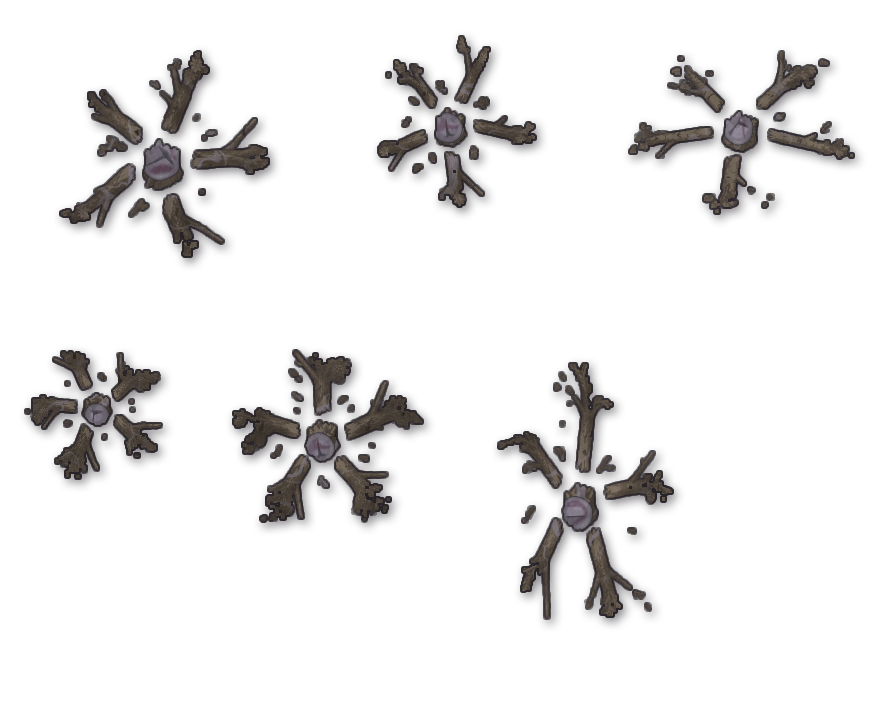
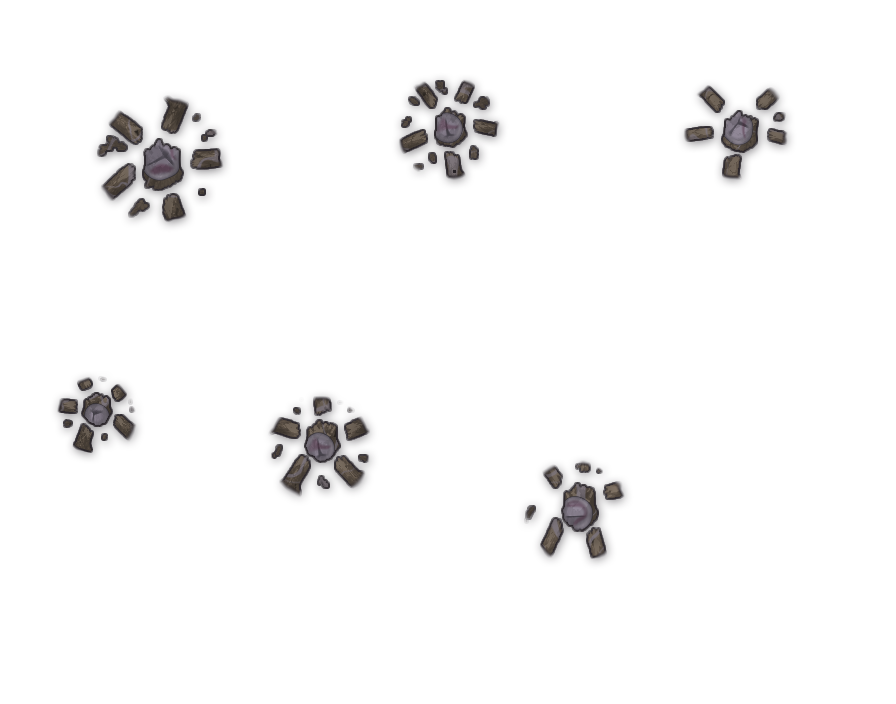
Dead wood ships weathered (owner pick B); felled dead trees lie flattened, a stump and short limb butts, so they read as ground a vehicle drives over

diff --git a/src/test/java/com/dillon/starsectormarines/ops/battleview/CreepBlightBaker.java b/src/test/java/com/dillon/starsectormarines/ops/battleview/CreepBlightBaker.java
@@ -23,16 +23,17 @@ import java.util.Random;
  * <p>A tree is taken in four stages, as a wall is: veins reaching in over the
  * crown from its rim while the leaves start to turn; a crust rolling in from the
  * rim with its beaded lip while the leaves brown; the crown withering, its dead
- * leaves falling from a bare skeleton; and the dead tree, a skeleton of bleached,
- * bone-pale limbs forking out to the crown's own outline, crusted at the trunk
- * with veins running out along the limbs. The skeleton is grown here rather than
+ * leaves falling from a bare skeleton; and the dead tree, a snag of weathered
+ * grey-brown limbs reaching unevenly out toward the crown's own outline, some
+ * snapped short, crusted at the trunk with veins running out along the limbs.
+ * (Bleached, smooth and evenly radial, it read as bone.) The skeleton is grown here rather than
  * taken from the damaged sheet, whose few broken limbs vanish at play zoom, and
  * a dark outline and a soft ground shadow stand it up off the creep. Every stage
  * exists for the intact and the war-damaged crown.
  *
- * <p>A dead tree felled lies as dead wood ({@link #felled}): the destroyed
- * sheet's stump and fallen limbs, bleached bone-pale and bare of leaves, the
- * stump crusted and veins running out along the limbs. It is a sheet of its own,
+ * <p>A dead tree felled lies flattened ({@link #felled}): the destroyed sheet's
+ * stump and the butts of its limbs snapped off short, in the dead bark and bare
+ * of leaves, the stump crusted, so it reads as ground a vehicle drives over. It is a sheet of its own,
  * {@code forest-blight-felled}, so the staged sheet's texture keeps its size.
  *
  * <p>Run with {@code gradlew.bat bakeCreepBlight}; it rewrites
@@ -61,56 +62,30 @@ public final class CreepBlightBaker {
     static boolean dense;
 
     /**
-     * How dead wood is drawn, every dead form alike (the withering skeleton, the dead tree, both war-damaged, and the
-     * felled wood): its bark colour and how far the light and grain move it, how ragged its limbs grow, how far the
-     * crust and veins climb, what share of dead leaves the dead tree keeps, the pale ridge its lit side takes, and
-     * where crust swallows the limbs in patches ({@code -PdeadLook=<name>}, an owner pick: the losers go once picked).
+     * Dead wood, every dead form alike (the withering skeleton, the dead tree, both war-damaged, and the felled
+     * wood): weathered grey-brown bark, its grain and fissures darkening it and its lit ridges silvered.
      */
-    record DeadLook(String name, float[] bark, float contrast, float grain, float fissure, float rough,
-                    float crust, float veins, float keep, float[] ridge, float ridgeAmount, float swallowAt,
-                    float felledCrust) {
-        /** Bleached bone-pale, smooth and round: the first look. */
-        static final DeadLook BONE = new DeadLook("bone", new float[]{0.86f, 0.83f, 0.76f}, 1f, 0.12f, 0f, 0f,
-                0.2f, 0.7f, 0.97f, null, 0f, 2f, 0.13f);
-        /** A weathered snag: grey-brown fissured bark silvered on its lit ridges, ragged broken limbs, a few dead
-         *  leaves still caught in it. */
-        static final DeadLook WEATHERED = new DeadLook("weathered", new float[]{0.42f, 0.37f, 0.32f}, 0.9f, 0.3f,
-                0.2f, 0.45f, 0.2f, 0.55f, 0.86f, new float[]{0.66f, 0.64f, 0.6f}, 0.35f, 2f, 0.13f);
-        /** Half swallowed: dark bark under crust climbing the limbs and lumped along them. */
-        static final DeadLook SWALLOWED = new DeadLook("swallowed", new float[]{0.34f, 0.30f, 0.28f}, 0.9f, 0.3f,
-                0.2f, 0.45f, 0.5f, 1f, 0.97f, null, 0f, 0.6f, 0.3f);
-        /** Rotted black: near-black wet bark, ash-grey on its lit ridges, ragged. */
-        static final DeadLook ROTTED = new DeadLook("rotted", new float[]{0.13f, 0.115f, 0.11f}, 0.8f, 0.25f,
-                0.25f, 0.5f, 0.2f, 0.5f, 0.995f, new float[]{0.55f, 0.53f, 0.5f}, 0.6f, 2f, 0.13f);
+    static final float[] BARK = {0.42f, 0.37f, 0.32f}, RIDGE = {0.66f, 0.64f, 0.6f};
+    /** How far the light, the grain and the fissures move the bark, and how strongly its lit ridges silver. */
+    static final float CONTRAST = 0.9f, GRAIN = 0.3f, FISSURE = 0.2f, RIDGE_AMOUNT = 0.35f;
+    /** How ragged a dead limb's edge grows: its width knotted by this share either way. */
+    static final float ROUGH = 0.45f;
+    /** How far, as a share of the crown's radius, the crust and the veins climb a dead tree. */
+    static final float DEAD_CRUST = 0.2f, DEAD_VEINS = 0.55f;
+    /** The dead tree keeps a few dead leaves caught in it: those whose noise runs past this. */
+    static final float DEAD_KEEP = 0.86f;
 
-        static DeadLook named(String name) {
-            for (DeadLook look : new DeadLook[]{BONE, WEATHERED, SWALLOWED, ROTTED}) if (look.name.equals(name)) return look;
-            throw new IllegalArgumentException("No dead look " + name);
-        }
-
-        /** The wood's colour at light {@code l} (ungrained: the grain is the look's), from the fine noise there. */
-        void wood(float l, float[] fine, float[] col) {
-            float shade = (1f + contrast * (l - 1f)) * (1f + grain * (fine[0] - 0.5f) * 2f);
-            if (fissure > 0f) shade *= CreepShading.mix(0.55f, 1f, CreepShading.smoothstep(fissure - 0.06f, fissure + 0.06f, fine[1]));
-            for (int c = 0; c < 3; c++) col[c] = bark[c] * shade;
-            if (ridge == null) return;
-            float lit = CreepShading.smoothstep(0.92f, 1.12f, l) * ridgeAmount;
-            for (int c = 0; c < 3; c++) col[c] = CreepShading.mix(col[c], ridge[c] * l, lit);
-        }
-
-        /** Crust lumped along the limbs where the coarse noise runs past {@link #swallowAt}: pixels inside it. */
-        float swallowed(float coarse) {
-            return (coarse - swallowAt) * 60f;
-        }
+    /** The wood's colour at light {@code l} (ungrained: the grain is added here), from the fine noise there. */
+    static void wood(float l, float[] fine, float[] col) {
+        float shade = (1f + CONTRAST * (l - 1f)) * (1f + GRAIN * (fine[0] - 0.5f) * 2f);
+        shade *= CreepShading.mix(0.55f, 1f, CreepShading.smoothstep(FISSURE - 0.06f, FISSURE + 0.06f, fine[1]));
+        float lit = CreepShading.smoothstep(0.92f, 1.12f, l) * RIDGE_AMOUNT;
+        for (int c = 0; c < 3; c++) col[c] = CreepShading.mix(BARK[c] * shade, RIDGE[c] * l, lit);
     }
-
-    /** The dead look this bake draws. */
-    static DeadLook look = DeadLook.BONE;
 
     public static void main(String[] args) throws Exception {
         Path mod = Path.of(args.length > 0 ? args[0] : "mod");
         dense = args.length > 1 && "dense".equals(args[1]);
-        if (args.length > 2) look = DeadLook.named(args[2]);
         BufferedImage canopies = ImageIO.read(mod.resolve("graphics/doodads/forest-canopies.png").toFile());
         BufferedImage damaged = ImageIO.read(mod.resolve("graphics/doodads/forest-damaged.png").toFile());
         JSONObject tileset = new JSONObject(Files.readString(mod.resolve("data/tilesets/forest-canopies.tileset.json")));
@@ -161,13 +136,17 @@ public final class CreepBlightBaker {
                 .put("cells", cells).put("doodads", defs);
     }
 
-    /** A felled tree lies on the ground: its shadow is thrown this much of a standing dead tree's. */
-    static final float FELLED_SHADOW = 0.35f;
+    /** A felled tree lies flat: its shadow is thrown this much of a standing dead tree's. */
+    static final float FELLED_SHADOW = 0.15f;
+    /** How far, as a share of the footprint's half-size, the felled wood's limbs reach before they break off. */
+    static final float FELLED_REACH = 0.4f;
+    /** How far the crust reaches out from the stump, as the same share. */
+    static final float FELLED_CRUST = 0.13f;
 
     /**
-     * A destroyed tree, dead: its stump and fallen limbs bleached bone-pale with the bark's own shading kept as
-     * grain, its leaves gone, the stump crusted over and veins running out along the limbs, outlined over a low
-     * shadow.
+     * A destroyed tree, dead, flattened: its stump and the butts of its limbs, snapped off short (a vehicle drives
+     * over it, so it must not read as a fallen tree that still blocks), in the dead bark, its leaves gone, the stump
+     * crusted over and veins running out along the butts, outlined over a low shadow.
      */
     static int[] felled(Frame f, CreepPalette pal) {
         int w = f.w, h = f.h, n = w * h;
@@ -183,13 +162,16 @@ public final class CreepBlightBaker {
             for (int x = 0; x < w; x++) {
                 int i = y * w + x;
                 if (!wood[i] || f.a[i] <= 0.01f) continue;
+                float rr = (float) Math.hypot(x + 0.5f - cx, y + 0.5f - cy) / radius;
+                // The limbs break off at a ragged line not far out from the stump.
+                float broken = CreepShading.smoothstep(FELLED_REACH + 0.12f * (knot(x, y) - 0.5f), FELLED_REACH - 0.04f, rr);
+                if (broken <= 0f) continue;
                 float cellX = x / (float) CELL, cellY = y / (float) CELL;
                 CreepNoise.sample(cellX * 2.6f + 7.1f, cellY * 2.6f + 2.3f, noise);
                 CreepNoise.sample(cellX * 6f + 1.9f, cellY * 6f + 4.4f, fine);
-                float rr = (float) Math.hypot(x + 0.5f - cx, y + 0.5f - cy) / radius;
                 float lit = CreepShading.clamp01(0.5f + 0.75f * f.lum[i]), l = lit * (0.9f + 0.2f * fine[0]);
                 float[] col = new float[3];
-                look.wood(lit, fine, col);
+                wood(lit, fine, col);
                 CreepSurface.sample(cellX * CreepShading.WALL_VEIN_SCALE, cellY * CreepShading.WALL_VEIN_SCALE,
                         CreepShading.WALL_VEIN_SCALE, surf);
                 float vein = CreepShading.clamp01(surf[2] * 1.6f) * CreepShading.smoothstep(0.75f, 0.2f, rr);
@@ -197,8 +179,7 @@ public final class CreepBlightBaker {
                     float raised = CreepShading.mix(pal.flesh()[c], pal.rim()[c], 0.35f) * (0.6f + 0.4f * l);
                     col[c] = CreepShading.mix(col[c], raised, 0.8f * vein);
                 }
-                float crust = Math.max((look.felledCrust() + (noise[0] - 0.5f) * 0.12f - rr) * radius,
-                        look.swallowed(noise[0]));
+                float crust = (FELLED_CRUST + (noise[0] - 0.5f) * 0.12f - rr) * radius;
                 float cover = CreepShading.clamp01(crust + 0.5f);
                 if (cover > 0f) {
                     float[] c2 = crustColour(cellX, cellY, crust, 0.35f + 0.4f * l, noise[0], pal, surf);
@@ -207,7 +188,7 @@ public final class CreepBlightBaker {
                 r[i] = col[0];
                 g[i] = col[1];
                 b[i] = col[2];
-                a[i] = f.a[i];
+                a[i] = f.a[i] * broken;
             }
         }
         return standUp(r, g, b, a, a.clone(), w, h, FELLED_SHADOW);
@@ -399,7 +380,7 @@ public final class CreepBlightBaker {
     static final float SHADOW_ALPHA = 0.5f;
 
     /**
-     * The last two stages: a skeleton of bare, bone-pale limbs forking out from the trunk to the crown's own outline,
+     * The last two stages: a skeleton of bare, weathered limbs forking unevenly out from the trunk toward the crown's outline,
      * crusted at the trunk with veins running out along the limbs, under the dead leaves still hanging on (half of
      * them withering, a few at the last), drawn with a dark outline over a soft shadow on the ground.
      */
@@ -422,21 +403,20 @@ public final class CreepBlightBaker {
         // Grown limbs, out along the crown's reach in every direction. A damaged crown keeps only its own stubs.
         Frame reachOf = damaged ? broken : healthy;
         Random rng = new Random(seed);
-        boolean ragged = look.rough() > 0f;
-        int mains = dense ? 9 + rng.nextInt(3) : ragged ? 4 + rng.nextInt(3) : 6 + rng.nextInt(3);
+        int mains = dense ? 9 + rng.nextInt(3) : 4 + rng.nextInt(3);
         double start = rng.nextDouble() * Math.PI * 2;
-        float base = Math.max(3.5f, radius * (ragged ? 0.095f : 0.075f));
+        float base = Math.max(3.5f, radius * 0.095f);
         for (int k = 0; k < mains; k++) {
-            double angle = start + k * Math.PI * 2 / mains + (rng.nextDouble() - 0.5) * (ragged ? 1.1 : 0.5);
+            double angle = start + k * Math.PI * 2 / mains + (rng.nextDouble() - 0.5) * 1.1;
             float reach = reach(reachOf, cx, cy, angle);
             if (reach < radius * 0.25f) continue;
-            // A ragged tree's limbs reach unevenly, and now and then one has snapped off short.
-            if (ragged) reach *= rng.nextInt(4) == 0 ? 0.35f + 0.2f * rng.nextFloat() : 0.7f + 0.3f * rng.nextFloat();
+            // The limbs reach unevenly, and now and then one has snapped off short.
+            reach *= rng.nextInt(4) == 0 ? 0.35f + 0.2f * rng.nextFloat() : 0.7f + 0.3f * rng.nextFloat();
             limb(wood, light, w, h, cx, cy, angle, reach * (dense ? 0.42f : 0.5f), base, dense ? 6 : 4, rng, reach, cx, cy);
         }
         // Leaves still hanging on, dead and dry.
         float[] noise = new float[4], fine = new float[4], surf = new float[4];
-        float keep = stage == 3 ? 0.45f : look.keep();
+        float keep = stage == 3 ? 0.45f : DEAD_KEEP;
         float[] r = new float[n], g = new float[n], b = new float[n], a = new float[n];
         // What the outline goes round: the whole crown while it withers, the bare wood once it is dead.
         float[] outlined = new float[n];
@@ -452,15 +432,14 @@ public final class CreepBlightBaker {
                 if (wood[i] > 0f) {
                     float grain = 0.88f + 0.24f * fine[0];
                     float l = CreepShading.clamp01(light[i]) * grain;
-                    look.wood(CreepShading.clamp01(light[i]), fine, col);
+                    wood(CreepShading.clamp01(light[i]), fine, col);
                     // Crust up the trunk and the bases of the limbs, veins out along them.
                     float lobes = (noise[0] - 0.5f) * 0.3f;
-                    float crust = Math.max((look.crust() * (stage == 3 ? 0.6f : 1f) + lobes - rr) * radius,
-                            stage == 3 ? -9f : look.swallowed(noise[0]));
+                    float crust = (DEAD_CRUST * (stage == 3 ? 0.6f : 1f) + lobes - rr) * radius;
                     CreepSurface.sample(cellX * CreepShading.WALL_VEIN_SCALE, cellY * CreepShading.WALL_VEIN_SCALE,
                             CreepShading.WALL_VEIN_SCALE, surf);
                     float vein = CreepShading.clamp01(surf[2] * 1.6f)
-                            * CreepShading.smoothstep(look.veins() - (stage == 3 ? 0.25f : 0f), 0.15f, rr);
+                            * CreepShading.smoothstep(DEAD_VEINS - (stage == 3 ? 0.25f : 0f), 0.15f, rr);
                     for (int c = 0; c < 3; c++) {
                         float raised = CreepShading.mix(pal.flesh()[c], pal.rim()[c], 0.35f) * (0.6f + 0.4f * l);
                         col[c] = CreepShading.mix(col[c], raised, 0.8f * vein);
@@ -546,7 +525,7 @@ public final class CreepBlightBaker {
     static void limb(float[] wood, float[] light, int w, int h, float x0, float y0, double angle, float length,
                      float width, int depth, Random rng, float reach, float cx, float cy) {
         // A limb bends once along its length.
-        double bend = (rng.nextDouble() - 0.5) * (look.rough() > 0f ? 0.9 : 0.45);
+        double bend = (rng.nextDouble() - 0.5) * 0.9;
         float mx = x0 + (float) Math.cos(angle) * length * 0.5f, my = y0 + (float) Math.sin(angle) * length * 0.5f;
         double angle2 = angle + bend;
         float x1 = mx + (float) Math.cos(angle2) * length * 0.5f, y1 = my + (float) Math.sin(angle2) * length * 0.5f;
@@ -580,7 +559,7 @@ public final class CreepBlightBaker {
                 float t = CreepShading.clamp01((px * dx + py * dy) / len2);
                 float ex = px - dx * t, ey = py - dy * t;
                 float half = (w0 + (w1 - w0) * t) * 0.5f;
-                if (look.rough() > 0f) half *= 1f + look.rough() * (knot(x, y) - 0.5f);
+                half *= 1f + ROUGH * (knot(x, y) - 0.5f);
                 float d = (float) Math.sqrt(ex * ex + ey * ey);
                 float cover = CreepShading.clamp01(half - d + 0.5f);
                 if (cover <= 0f) continue;

diff --git a/roadmap/colony-breach/design/colony-breach-nouns.md b/roadmap/colony-breach/design/colony-breach-nouns.md
@@ -1448,18 +1448,22 @@ against its own control in `renderEvidence`.
   reaching in from the crown's rim while the leaves start to turn; a crust
   rolling in from the rim with the creep's beaded lip while the leaves brown;
   the crown withering, its dead leaves falling from a bare skeleton; and the
-  dead tree, a skeleton of bleached, bone-pale limbs forking out from a crusted
-  trunk to the crown's own outline, veins running out along them, drawn with a
+  dead tree, a snag of weathered grey-brown limbs, fissured and silvered on
+  their lit ridges, reaching unevenly from a crusted trunk toward the crown's
+  outline, some snapped short, a few dead leaves caught in them and veins
+  running out along them (bleached, smooth and evenly radial, they read as
+  bone), drawn with a
   dark outline over a soft ground shadow so it stands up off the dark creep at
   play zoom. The skeleton is grown by the bake rather than taken from the
   damaged-crown art, whose few broken limbs vanished against the creep. The stages are a
   sheet baked from the canopy art and the creep's own surface and palette
   (`gradlew.bat bakeCreepBlight`), so the crust on a crown is the crust on the
-  ground. A dead tree felled, by heavy tracks or by fire, lies as dead wood: the
-  destroyed tree's stump and fallen limbs bleached bone-pale and bare, the stump
-  crusted, baked the same way from the destroyed-tree art (a sheet of its own,
-  `forest-blight-felled`); a tree felled while it lived keeps its green felled
-  art. On vegetation (grass, crops and the plants on them) the edge is not
+  ground. A dead tree felled, by heavy tracks or by fire, lies flattened: the
+  destroyed tree's stump and the butts of its limbs snapped off short, in the
+  same dead bark, the stump crusted, so it reads as ground a vehicle drives over
+  rather than a fallen tree still in the way; it is baked the same way from the
+  destroyed-tree art (a sheet of its own, `forest-blight-felled`). A tree felled
+  while it lived keeps its green felled art. On vegetation (grass, crops and the plants on them) the edge is not
   clean as it is on pavement: the creep's coverage spread a few cells out turns
   the grass a dry, greyed straw (the palette's wilt colour) and veins reach out
   into it ahead of the lip, so grass and crop rows are seen to be taken before

diff --git a/roadmap/convoy/design/convoy-nouns.md b/roadmap/convoy/design/convoy-nouns.md
@@ -1100,7 +1100,7 @@ Which living trees count as young is the owner's open pick
 (`-Dbattle.vehicle.crushYoungTrees`); `-Dbattle.vehicle.crushUndergrowth=false`
 is the control. Acceptance is the `tank-undergrowth` scene: a tank ordered
 across young or creep-killed wood drives through it, felling what it touches
-(dead trees fall as bleached dead wood, `colony-breach-nouns.md`), while a
+(a dead tree falls flattened, a stump and short butts, `colony-breach-nouns.md`), while a
 living mature wood and a troop APC in young wood are held.
 
 A hull that runs into something that stops it is heard: a stopped move at half
